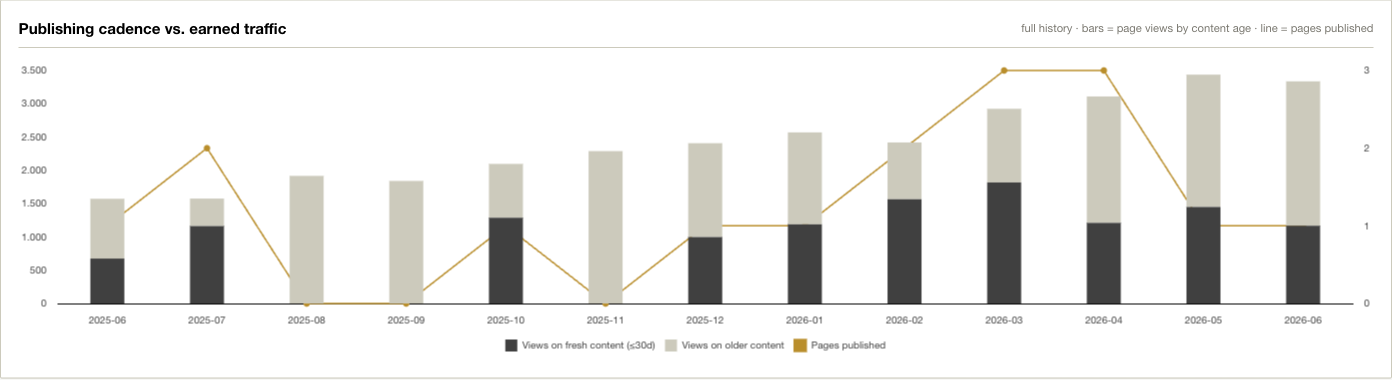
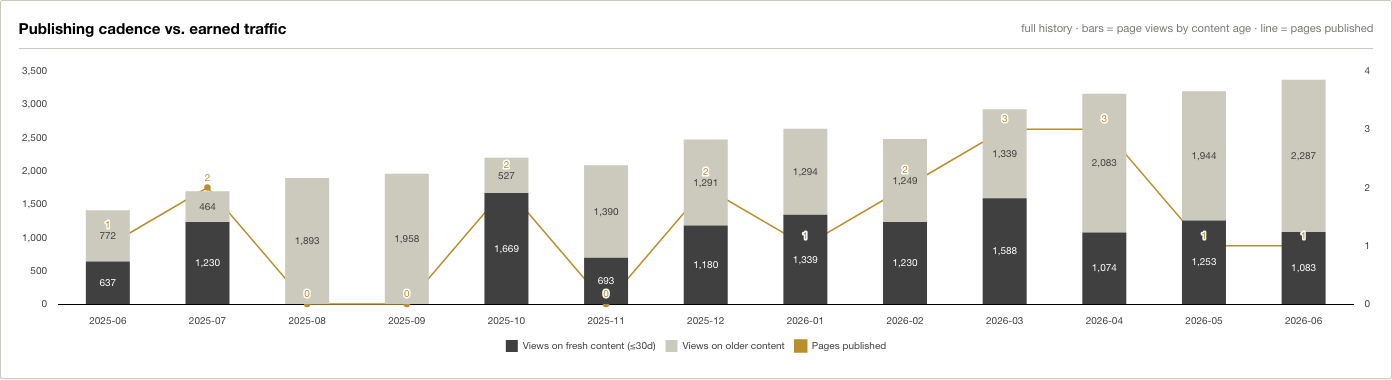
fix(dashboard): restore missing chart value labels and unreachable tooltips
Three defects, all visible on the publishing-cadence combo chart:

Stacked segment labels were dropped whenever the text outgrew the bar
(textWidth > barWidth-2). At maxBarThickness:34 the budget is 32px, but a
6-digit number measures 36.1px vs 30.6px for 5 digits — so the cutoff tracked
the *value*, not the available space, and systematically stripped the labels
off the tallest bars. Both stacked charts move to the house-standard 44px, and
the plugin now degrades to a chart-wide compact form ("126K") instead of
silently dropping labels once the exact numbers no longer fit.

Line datasets were never labelled at all: the plugin filters on meta.type
'bar'. Combo charts now label each line point above the mark with a white halo
— the line rides its own axis and crosses the bars, so it has no predictable
backdrop — and line labels dodge segment labels they would otherwise print
over.

No chart configured `interaction`, so all 16 ran on the Chart.js default
(nearest/intersect), which needs a direct hit on the mark. Line points buried
inside a bar stack and points drawn with pointRadius:0 were unreachable: from
an ordinary mid-plot mouse position chartIxTraffic, chartDecay, chartFreq and
chartIxWeekday resolved *no* series at all, and the stacked charts resolved
only the segment under the cursor. Defaulted to index/non-intersect once,
centrally; doughnuts keep nearest/intersect since 'index' has no category axis
to resolve against and would fire on the centre hole.
[…]

diff --git a/SiteOwnerDashboard/dashboard/dashboard.html b/SiteOwnerDashboard/dashboard/dashboard.html
@@ -590,6 +590,13 @@ if (window.Chart) {
   C.font.family = "'Frutiger 45 Light','Frutiger','Helvetica Neue',Helvetica,Arial,'Segoe UI',system-ui,sans-serif";
   C.font.size = 11; C.color = '#404040'; C.borderColor = '#ECEBE4';
   C.plugins.legend.labels.boxWidth = 12; C.plugins.legend.labels.boxHeight = 12;
+  // Hovering a category reports every series at that index. Chart.js defaults to
+  // nearest/intersect, which needs a direct hit on the mark: line points buried
+  // inside a bar stack and points drawn with pointRadius:0 are then unreachable,
+  // so their series never shows a tooltip. Doughnuts keep the default — 'index'
+  // has no category axis to resolve against and would fire on the centre hole.
+  C.interaction.mode = 'index'; C.interaction.intersect = false;
+  try { Chart.overrides.doughnut.interaction = { mode:'nearest', intersect:true }; } catch(e){}
   try { C.scale.grid.display = false; } catch(e){}
   ['linear','logarithmic','category','time','timeseries'].forEach(t => {
     try { C.scales[t].grid = Object.assign({}, C.scales[t].grid, { display:false }); } catch(e){}
@@ -681,17 +688,19 @@ Chart.register({ id:'donutSliceLabel', afterDatasetsDraw(chart){
 // Formatting stays declarative (numbers/booleans) — a function-valued option would
 // be swallowed by Chart.js's scriptable-options resolver.
 Chart.register({ id:'barValueLabel',
-  // Reserve headroom on the value axis so the tallest bar never touches the top —
-  // otherwise its top label gets clamped against the bar while shorter bars keep a
-  // clean gap. Only for single-series (top-label) vertical charts; stacked charts
-  // label inside the segments and need no headroom.
+  // Reserve headroom on the value axis so the topmost mark never touches the top —
+  // otherwise its label gets clamped against the mark while shorter ones keep a
+  // clean gap. Needed by whatever this chart labels ABOVE its mark: a single bar
+  // series (value on top) or, on a combo chart, the line (value above each point).
+  // Stacked segments label inside the bar, so their axis needs no headroom.
   afterDataLimits(chart, args){
     const opt = chart.options.plugins.barValueLabel; if (!opt) return;
     if (chart.options.indexAxis === 'y') return;
-    if (args.scale.axis !== 'y') return;
-    const barCount = chart.data.datasets.filter(d => (d.type || chart.config.type) === 'bar').length;
-    if (barCount !== 1) return;
-    const sc = args.scale;
+    const sc = args.scale; if (sc.axis !== 'y') return;
+    const typeOf = d => d.type || chart.config.type;
+    const onThisScale = t => chart.data.datasets.some(d => typeOf(d) === t && (d.yAxisID || 'y') === sc.id);
+    const barCount = chart.data.datasets.filter(d => typeOf(d) === 'bar').length;
+    if (!(barCount === 1 ? onThisScale('bar') : onThisScale('line'))) return;
     if (isFinite(sc.max) && isFinite(sc.min) && sc.max > sc.min) sc.max += (sc.max - sc.min) * 0.12;
   },
   afterDatasetsDraw(chart){
@@ -703,6 +712,7 @@ Chart.register({ id:'barValueLabel',
   if (!barSets.length) return;
   const fmtFn = (typeof opt.decimals==='number') ? (v=>(+v).toFixed(opt.decimals)) : (v=>fmt(v));
   ctx.save(); ctx.font=LABEL_FONT; ctx.textAlign='center';
+  const placed=[];        // segment labels already drawn — line labels dodge these
 
   if (barSets.length === 1){                                    // value above each bar
     const {meta, ds}=barSets[0];
@@ -735,13 +745,55 @@ Chart.register({ id:'barValueLabel',
     });
   } else {                                                      // value centred in each segment
     ctx.textBaseline='middle';
+    const segs=[];
     barSets.forEach(({meta, ds})=>{
       const bg = typeof ds.backgroundColor==='string' ? ds.backgroundColor : '#404040';
       meta.data.forEach((bar,i)=>{ const v=+ds.data[i]; if (!v) return;
         const p=bar.getProps(['y','base','width'], true);
         if (Math.abs(p.base-p.y) < 14) return;                  // segment too short
-        const t=fmtFn(v); if (ctx.measureText(t).width > p.width-2) return;
-        ctx.fillStyle=_ink(bg); ctx.fillText(t, bar.x, (p.y+p.base)/2);
+        segs.push({ v, x:bar.x, y:(p.y+p.base)/2, w:p.width, ink:_ink(bg) });
+      });
+    });
+    // A segment label lives inside its bar, so the bar width is the honest budget:
+    // its ink is picked for the segment fill and turns illegible the moment the
+    // text spills onto the page background. Exact numbers outgrow a thin bar as
+    // the value climbs, which silently stripped the labels off the *tallest* bars
+    // — the ones worth reading. Fall back to compact ("126K") for the whole chart
+    // instead: same unit everywhere, exact figures still in the tooltip.
+    const fits = f => segs.every(s => ctx.measureText(f(s.v)).width <= s.w-2);
+    const fn = fits(fmtFn) ? fmtFn : ((typeof opt.decimals!=='number' && fits(fmtShort)) ? fmtShort : null);
+    if (fn) segs.forEach(s=>{ const t=fn(s.v);
+      ctx.fillStyle=s.ink; ctx.fillText(t, s.x, s.y);
+      placed.push({ x:s.x, y:s.y, w:ctx.measureText(t).width });
+    });
+  }
+
+  // Combo charts (bars + line): the line rides its own axis and crosses the bars,
+  // so its labels have no predictable backdrop — draw them above the point with a
+  // white halo, legible over both a dark segment and the page. A point that lands
+  // on a segment label gets lifted clear of it; without that the two print on top
+  // of each other (a "0" stamped through "13,860" reads as neither).
+  const lineSets = chart.data.datasets.map((ds,i)=>({ds, meta:chart.getDatasetMeta(i)}))
+    .filter(o=>o.meta.type==='line' && !o.meta.hidden);
+  if (lineSets.length){
+    const slot = chartArea.width / Math.max(chart.data.labels.length, 1);
+    ctx.textBaseline='bottom'; ctx.lineJoin='round';
+    lineSets.forEach(({meta, ds})=>{
+      const texts = meta.data.map((_,i)=>{ const v=+ds.data[i];
+        return (ds.data[i]==null || isNaN(v)) ? null : fmtFn(v); });
+      if (texts.some(t=>t!=null && ctx.measureText(t).width > slot-2)) return;
+      const color = typeof ds.borderColor==='string' ? ds.borderColor : '#404040';
+      meta.data.forEach((pt,i)=>{ if (texts[i]==null) return;
+        const tw=ctx.measureText(texts[i]).width;
+        let y = pt.y-5;                       // label spans [y-10, y]; segment labels [c.y-5, c.y+5]
+        for (let n=0; n<3; n++){
+          const hit = placed.find(c => Math.abs(c.x-pt.x) < (c.w+tw)/2+2 && y-10 < c.y+5 && y > c.y-5);
+          if (!hit) break;
+          y = hit.y-6;
+        }
+        y = Math.max(y, chartArea.top+9);
+        ctx.lineWidth=3; ctx.strokeStyle='#FFFFFF'; ctx.strokeText(texts[i], pt.x, y);
+        ctx.fillStyle=color; ctx.fillText(texts[i], pt.x, y);
       });
     });
   }
@@ -771,6 +823,10 @@ let ixExpPicker=null, ixExpSort={col:'clicks', dir:'desc'}, lastIxExp=null, ixEx
 
 // ==== Helpers ====
 function fmt(n){ return n==null ? '–' : Number(n).toLocaleString('en-US'); }
+// Compact fallback ("126K") for in-chart labels only, where the exact number has
+// no room. Everything else — tables, tooltips, KPIs — stays on full figures.
+const _shortFmt = new Intl.NumberFormat('en-US', { notation:'compact', maximumFractionDigits:1 });
+function fmtShort(n){ return n==null ? '–' : _shortFmt.format(Number(n)); }
 function fmtDur(sec){ if (sec==null || isNaN(sec)) return '–'; sec=Math.round(sec);
   const m=Math.floor(sec/60), s=sec%60; return m>0 ? `${m}m ${s}s` : `${s}s`; }
 function iso(d){ return d.toISOString().slice(0,19).replace('T',' '); }
@@ -2113,11 +2169,12 @@ function drawLifecycle(){
 
   destroy('cadence');
   charts.cadence = new Chart(document.getElementById('chartCadence'), {
+    type:'bar',
     data:{ labels: cadence.map(r=>r.m), datasets:[
       { type:'bar', label:'Views on fresh content (≤30d)', data:cadence.map(r=>r.fresh),
-        backgroundColor:'#404040', stack:'v', yAxisID:'y', maxBarThickness:34 },
+        backgroundColor:'#404040', stack:'v', yAxisID:'y', maxBarThickness:44 },
       { type:'bar', label:'Views on older content', data:cadence.map(r=>r.older),
-        backgroundColor:'#CCCABC', stack:'v', yAxisID:'y', maxBarThickness:34 },
+        backgroundColor:'#CCCABC', stack:'v', yAxisID:'y', maxBarThickness:44 },
       { type:'line', label:'Pages published', data:cadence.map(r=>r.published),
         borderColor:'#B98E2C', backgroundColor:'#B98E2C', yAxisID:'y2',
         tension:0, pointRadius:2.5, borderWidth:1.5 } ] },
@@ -2228,9 +2285,9 @@ function drawAudience(){
     type:'bar',
     data:{ labels: monthly.map(r=>r.m), datasets:[
       { label:'Returning visitors', data:monthly.map(r=>r.ret), backgroundColor:'#404040',
-        stack:'u', maxBarThickness:34 },
+        stack:'u', maxBarThickness:44 },
       { label:'New visitors', data:monthly.map(r=>r.newu), backgroundColor:'#CCCABC',
-        stack:'u', maxBarThickness:34 } ] },
+        stack:'u', maxBarThickness:44 } ] },
     options:{ responsive:true, maintainAspectRatio:false,
       plugins:{ legend:{ position:'bottom', labels:{ font:{size:10} } }, barValueLabel:{} },
       scales:{ x:{ stacked:true, grid:{display:false}, border:{color:'#000'}, ticks:{ font:{size:10}, maxRotation:0, autoSkip:true } },
@@ -2332,7 +2389,10 @@ async function renderIxTraffic(w){
     document.getElementById('ixTrafficSub').textContent = 'daily clicks & unique clickers (CET)';
     charts.ixTraffic = new Chart(document.getElementById('chartIxTraffic'), {
       type:'line',
-      data:{ labels: rows.map(r=>new Date(r.d+'T00:00:00Z')), datasets:[
+      // Local midnight, not UTC: the time scale renders in the viewer's zone, so a
+      // UTC-anchored day reads as "2:00 a.m." here and slips to the previous day
+      // for anyone west of UTC. These are calendar days already bucketed by SQL.
+      data:{ labels: rows.map(r=>new Date(r.d+'T00:00:00')), datasets:[
         { label:'Clicks', data: rows.map(r=>Number(r.clicks)), yAxisID:'y',
           borderColor:'#404040', backgroundColor:'rgba(64,64,64,0.08)', fill:true,
           tension:0.3, borderWidth:2, pointRadius:0, pointHoverRadius:5, pointHoverBackgroundColor:'#404040' },
@@ -2341,7 +2401,7 @@ async function renderIxTraffic(w){
           tension:0.3, borderWidth:2, pointRadius:0, pointHoverRadius:5, pointHoverBackgroundColor:'#B8B3A2' } ] },
       options:{ responsive:true, maintainAspectRatio:false,
         plugins:{ legend:{ position:'top', labels:{ usePointStyle:true, pointStyle:'line', font:{size:10} } } },
-        scales:{ x:{ type:'time', time:{ unit:'day' }, grid:{display:false}, border:{color:'#000'}, ticks:{ font:{size:10}, maxRotation:0, autoSkip:true } },
+        scales:{ x:{ type:'time', time:{ unit:'day', tooltipFormat:'PP' }, grid:{display:false}, border:{color:'#000'}, ticks:{ font:{size:10}, maxRotation:0, autoSkip:true } },
                  y:{ position:'left', beginAtZero:true, grid:{display:false}, border:{display:false},
                      ticks:{ font:{size:10} }, title:{ display:true, text:'Clicks', font:{size:10} } },
                  y1:{ position:'right', beginAtZero:true, grid:{display:false}, border:{display:false},
